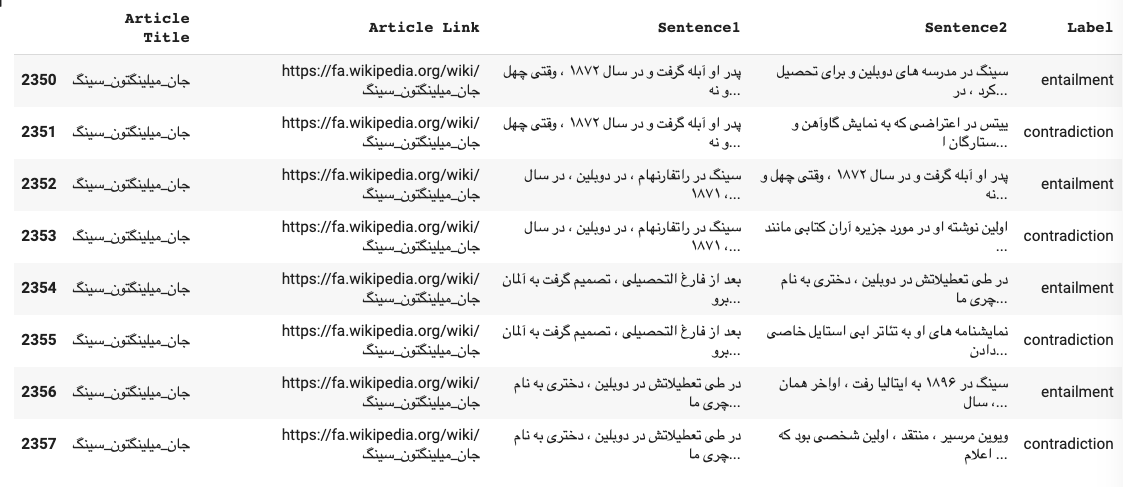
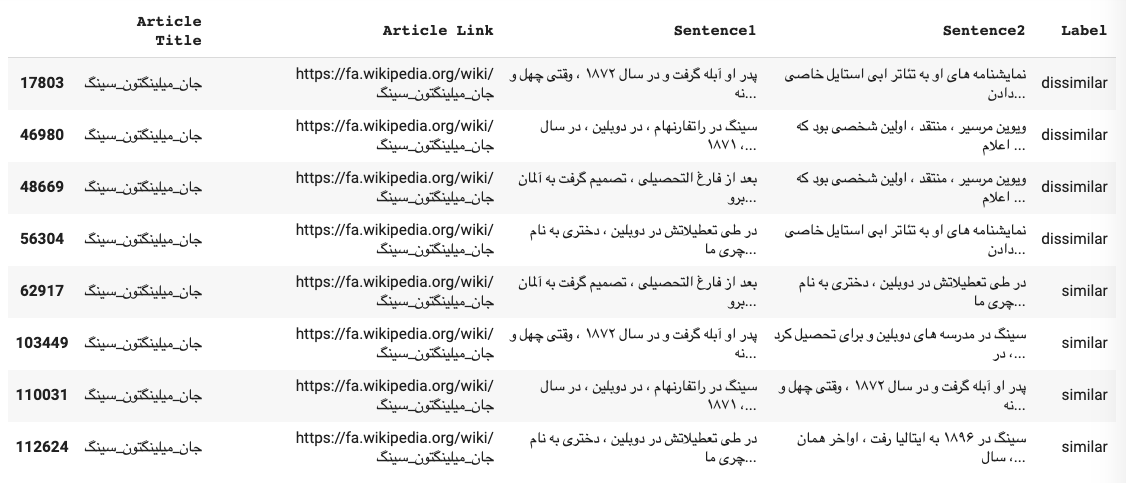
change labels/titles for wiki-nli

diff --git a/README.md b/README.md
@@ -7,8 +7,8 @@
   - [Future Works](#future-works)
   - [Dataset Information ( 😎 )](#dataset-information---)
     - [Wikipedia Sections Sentences](#wikipedia-sections-sentences)
-    - [Wiki NLI](#wiki-nli)
     - [Wiki Triplet](#wiki-triplet)
+    - [Wiki D/Similar](#wiki-dsimilar)
   - [Evaluation](#evaluation)
   - [How to use ( Applications )](#how-to-use--applications-)
   - [Model Releases](#model-releases)
@@ -141,22 +141,22 @@ Each pair-sections shows the order of sentence extraction. For example, the pair
 | جنبش های اجتمای دیگر ، از جمله موج اول فمینیسم ، رفرم اخلاقی و جنبش های میانه رو نیز در توسعه ونکوور مؤثر بودند . 	| ادغام پوینت گری و ونکوور جنوبی به شهر ونکوور ، آخرین مرزبندی های شهری را رقم زد و مدتی بعد آن را به سومین کلان شهر کانادا تبدیل کرد .                     	| در سال ۲۰۰۸ ، در میان ۲۷ کلان شهر کانادا ، ونکوور هفتمین آمار جرم و جنایت را داشت که از سال ۲۰۰۵ ، سه پله سقوط کرده بود . 	|
 | یکی از ویژگی های مهم سیستم های مالیاتی ، درصد بار مالیاتی مرتبط با درآمد یا مصرف است .                            	| یک مالیات صعودی ، مالیاتی است که به گونه ای اعمال می شود که وقتی مبلغی که به آن مالیات اعمال می شود افزایش می یابد ، نرخ مالیات مؤثر نیز افزایش می یابد . 	| اضافه رفاه از دست رفته باعث تنظیم مالیات ها در تراز کردن (فرصت ها در) زمین بازی تجاری نمی شود .                           	|
 
-As far as this mutated method can understand the entailment and thematic, we could use a similar procedure to extract the NLI dataset, shown in Fig 5.
+As far as this mutated method can understand the thematic, we could use a similar procedure to extract the D/Similar dataset, shown in Fig 5.
 
 <p align="center">
     <a href="assets/P-4.png"><img src="assets/P-4.png" /></a>
     <br>
-    <em>Figure 5: Wikipedia-NLI.</em>
+    <em>Figure 5: Wikipedia-D/Similar.</em>
 </p>
 
 **Examples**
 
-|                                                                              Sentence1                                                                              	|                                                                                       Sentence2                                                                                      	|        Label        	|
-|:-------------------------------------------------------------------------------------------------------------------------------------------------------------------:	|:------------------------------------------------------------------------------------------------------------------------------------------------------------------------------------:	|:-------------------:	|
-| در جریان انقلاب آلمان در سال های ۱۹۱۸ و ۱۹۱۹ او به برپایی تشکیلات فرایکورپس که سازمانی شبه نظامی برای سرکوب تحرکات انقلابی کمونیستی در اروپای مرکزی بود ، کمک کرد . 	|                            کاناریس بعد از جنگ در ارتش باقی ماند ، اول به عنوان عضو فرایکورپس و سپس در نیروی دریایی رایش.در ۱۹۳۱ به درجه سروانی رسیده بود .                           	|  <br>entailment     	|
-| در جریان انقلاب آلمان در سال های ۱۹۱۸ و ۱۹۱۹ او به برپایی تشکیلات فرایکورپس که سازمانی شبه نظامی برای سرکوب تحرکات انقلابی کمونیستی در اروپای مرکزی بود ، کمک کرد . 	| پسر سرهنگ وسل فرییتاگ لورینگوون به نام نیکی در مورد ارتباط کاناریس با بهم خوردن توطئه هیتلر برای اجرای آدمربایی و ترور پاپ پیوس دوازدهم در ایتالیا در ۱۹۷۲ در مونیخ شهادت داده است . 	|  <br>contradiction  	|
-| شهر شیراز در بین سال های ۱۳۴۷ تا ۱۳۵۷ محل برگزاری جشن هنر شیراز بود .                                                                                               	| جشنواره ای از هنر نمایشی و موسیقی بود که از سال ۱۳۴۶ تا ۱۳۵۶ در پایان تابستان هر سال در شهر شیراز و تخت جمشید برگزار می شد .                                                         	|  <br>entailment     	|
-| شهر شیراز در بین سال های ۱۳۴۷ تا ۱۳۵۷ محل برگزاری جشن هنر شیراز بود .                                                                                               	| ورزشگاه پارس با ظرفیت ۵۰ هزار تن که در جنوب شیراز واقع شده است .                                                                                                                     	|  <br>contradiction  	|
+| Sentence1                                                                                                                                                           	| Sentence2                                                                                                                                                                            	| Label      	|
+|---------------------------------------------------------------------------------------------------------------------------------------------------------------------	|--------------------------------------------------------------------------------------------------------------------------------------------------------------------------------------	|------------	|
+| در جریان انقلاب آلمان در سال های ۱۹۱۸ و ۱۹۱۹ او به برپایی تشکیلات فرایکورپس که سازمانی شبه نظامی برای سرکوب تحرکات انقلابی کمونیستی در اروپای مرکزی بود ، کمک کرد . 	| کاناریس بعد از جنگ در ارتش باقی ماند ، اول به عنوان عضو فرایکورپس و سپس در نیروی دریایی رایش.در ۱۹۳۱ به درجه سروانی رسیده بود .                                                      	| similar    	|
+| در جریان انقلاب آلمان در سال های ۱۹۱۸ و ۱۹۱۹ او به برپایی تشکیلات فرایکورپس که سازمانی شبه نظامی برای سرکوب تحرکات انقلابی کمونیستی در اروپای مرکزی بود ، کمک کرد . 	| پسر سرهنگ وسل فرییتاگ لورینگوون به نام نیکی در مورد ارتباط کاناریس با بهم خوردن توطئه هیتلر برای اجرای آدمربایی و ترور پاپ پیوس دوازدهم در ایتالیا در ۱۹۷۲ در مونیخ شهادت داده است . 	| dissimilar 	|
+| شهر شیراز در بین سال های ۱۳۴۷ تا ۱۳۵۷ محل برگزاری جشن هنر شیراز بود .                                                                                               	| جشنواره ای از هنر نمایشی و موسیقی بود که از سال ۱۳۴۶ تا ۱۳۵۶ در پایان تابستان هر سال در شهر شیراز و تخت جمشید برگزار می شد .                                                         	| similar    	|
+| شهر شیراز در بین سال های ۱۳۴۷ تا ۱۳۵۷ محل برگزاری جشن هنر شیراز بود .                                                                                               	| ورزشگاه پارس با ظرفیت ۵۰ هزار تن که در جنوب شیراز واقع شده است .                                                                                                                     	| dissimilar 	|
 
 
 ## Future Works
@@ -169,7 +169,7 @@ As far as this mutated method can understand the entailment and thematic, we cou
 
 - [Wikipedia Section Sentences](https://drive.google.com/uc?id=1uax1CncimQU-_kWvNigBONyplVRdi7PX)
 - [Wiki Triplet](https://drive.google.com/uc?id=1-lfrhHZwleYR4s0xGkXZPXxTeF25Q4C3)
-- [Wiki NLI](https://drive.google.com/uc?id=1801hoAM4hkGjFY8zUirPMPJ5hFzy7K4B)
+- [Wiki D/Similar](https://drive.google.com/uc?id=1P-KfNVIAx4HkaWFxc9aFoO3sHzHJFaVn)
 
 ### Wikipedia Sections Sentences
 
@@ -185,7 +185,7 @@ As far as this mutated method can understand the entailment and thematic, we cou
 | 1.0.0   	| 180,585 	| 5,586 	| 5,758 	|
 
 
-### Wiki NLI
+### Wiki D/Similar
 
 | Version 	| Train   	| Dev   	| Test  	|
 |---------	|---------	|-------	|-------	|
@@ -195,14 +195,13 @@ As far as this mutated method can understand the entailment and thematic, we cou
 
 The following table summarizes the scores obtained by each dataset and model.
 
-| Model                                     	| Dataset     	| Metrics (%)                                                                     	|
-|-------------------------------------------	|-------------	|---------------------------------------------------------------------------------	|
-| parsbert-base-wikinli-mean-tokens         	| wikinli     	| Accuracy: 76.20                                                                 	|
-| parsbert-base-wikinli                     	| wikinli     	| F1: 77.84,  Accuracy: 77.84                                                     	|
-| parsbert-base-wikitriplet-mean-tokens     	| wikitriplet 	| Accuracy Cosinus: 93.33,  Accuracy Manhatten: 94.40,  Accuracy Euclidean: 93.31 	|
-| parsbert-base-uncased-farstail            	| farstail    	| F1: 81.65,  Accuracy: 81.71                                                     	|
-| bert-fa-base-uncased-farstail-mean-tokens 	| farstail    	| Accuracy: 56.45                                                                 	|
-
+| Model                                     	| Dataset        	| Metrics (%)                                                                     	|
+|-------------------------------------------	|----------------	|---------------------------------------------------------------------------------	|
+| parsbert-base-wikinli-mean-tokens         	| wiki-d-similar 	| Accuracy: 76.20                                                                 	|
+| parsbert-base-wikinli                     	| wiki-d-similar 	| F1: 77.84,  Accuracy: 77.84                                                     	|
+| parsbert-base-wikitriplet-mean-tokens     	| wikitriplet    	| Accuracy Cosinus: 93.33,  Accuracy Manhatten: 94.40,  Accuracy Euclidean: 93.31 	|
+| parsbert-base-uncased-farstail            	| farstail       	| F1: 81.65,  Accuracy: 81.71                                                     	|
+| bert-fa-base-uncased-farstail-mean-tokens 	| farstail       	| Accuracy: 56.45                                                                 	|
 
 ## How to use ( Applications )
 | Application           	| Notebook                                                                                                                                                                                    	|
